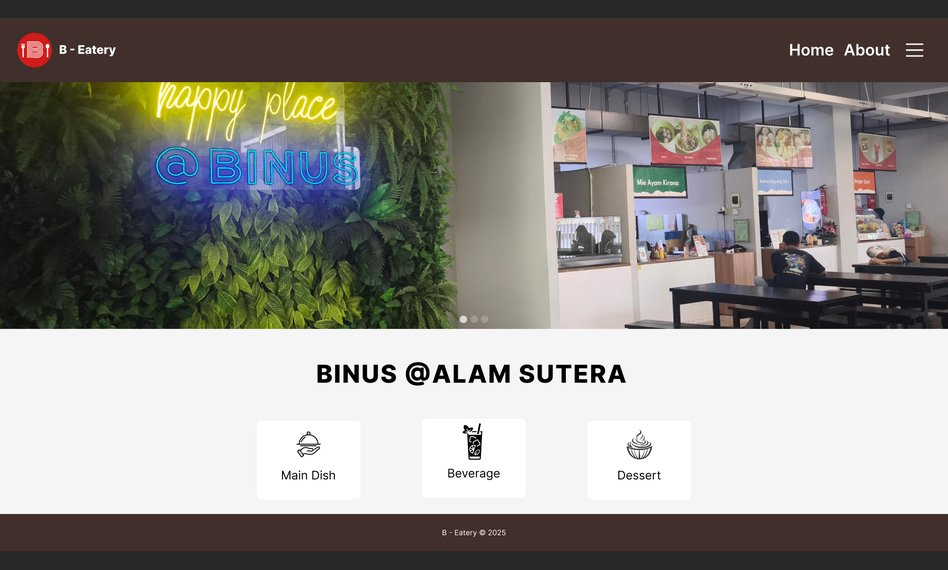
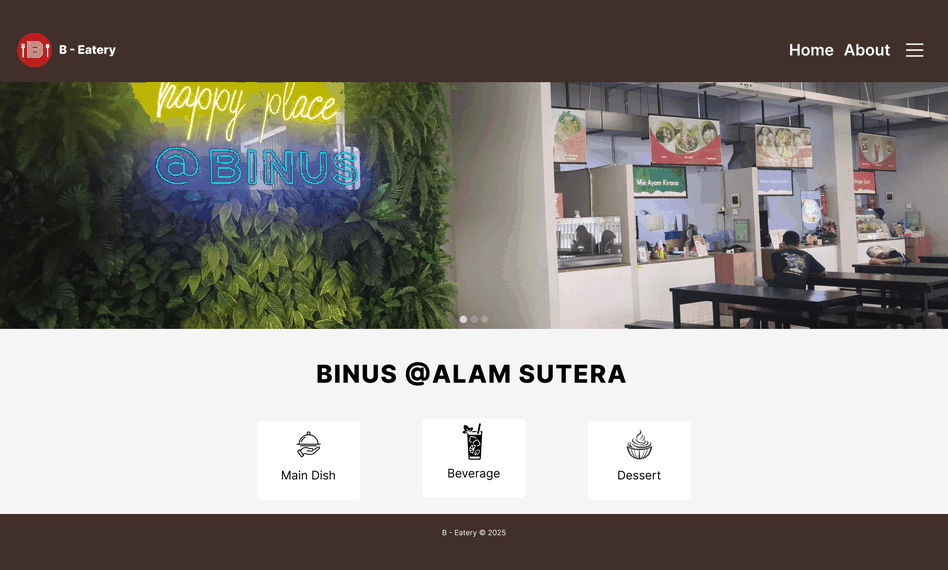
Design section: larger screenshots, click-to-zoom lightbox, compressed WebP images with PNG fallback

diff --git a/index.html b/index.html
@@ -417,6 +417,17 @@
     .design-shot.shot-missing .project-shot { display: none; }
     .design-shot.shot-missing .shot-fallback { display: flex; }
     .design-label { display: inline-block; margin-bottom: var(--s1); padding: 0 var(--s1); font: 16px/20px var(--f-px); color: var(--dim); border: 2px solid currentColor; }
+    @media (min-width: 761px) { .design-list .project { grid-template-columns: minmax(0, 54%) minmax(0, 1fr); } }
+    .shot-zoom { display: block; background: none; text-decoration: none; cursor: zoom-in; }
+    .shot-zoom:hover { background: none; }
+    .shot-zoom:hover .project-shot { border-image-source: var(--fr-panel); }
+    .zoom-hint { display: block; margin-top: var(--s1); font-size: 14px; line-height: 20px; color: var(--dim); }
+    .design-shot .project-shot { margin-bottom: 0; }
+    #lightbox { padding: var(--s3); max-width: min(1640px, 96vw); width: auto; max-height: 94vh; margin: auto; color: var(--ink); background: var(--page); border: 6px solid transparent; border-image: var(--fr-panel) 6 fill / 6px / 0 stretch; }
+    #lightbox::backdrop { background: rgba(20, 16, 10, .82); }
+    #lightbox img { display: block; max-width: 100%; max-height: calc(94vh - 130px); width: auto; height: auto; margin: 0 auto; }
+    #lightbox .lb-bar { display: flex; align-items: center; justify-content: space-between; gap: var(--s3); margin-bottom: var(--s2); }
+    #lightbox .lb-caption { font-size: 16px; line-height: 24px; color: var(--dim); }
     .design-fact { font-size: 16px; line-height: 24px; margin-top: var(--s2); }
     .todo { background: var(--wheat); color: #2e2419; padding: 0 var(--s1); outline: 2px dashed #2e2419; outline-offset: 0; }
     .design-code { margin-left: var(--s3); font: 20px/24px var(--f-px); white-space: nowrap; }
@@ -660,6 +671,11 @@
 </div>
 
 <canvas id="click-burst"></canvas>
+
+<dialog id="lightbox" aria-label="Screenshot viewer">
+  <div class="lb-bar"><p class="lb-caption" id="lbCaption"></p><button type="button" class="btn-game btn-outline-g" id="lbClose" aria-label="Close screenshot viewer"><svg class="px" aria-hidden="true"><use href="#i-close"/></svg> Close</button></div>
+  <img id="lbImg" alt="">
+</dialog>
 <div id="scroll-progress"></div>
 
 <!-- Toast -->
@@ -786,7 +802,7 @@
       <div class="design-list">
         <article class="project design-card">
           <div class="design-shot">
-            <img class="project-shot" src="assets/design/cryplto.png" width="948" height="570" loading="lazy" alt="cryPlto landing page design in Figma: a dark page with the headline Simplify Your Crypto Journey and a Top Coins row for Bitcoin, Ethereum, Binance Coin, and Solana" onerror="this.parentNode.classList.add('shot-missing')">
+            <a class="shot-zoom" href="assets/design/cryplto-large.webp" aria-label="Enlarge screenshot of cryPlto"><picture><source srcset="assets/design/cryplto.webp" type="image/webp"><img class="project-shot" src="assets/design/cryplto.png" width="948" height="570" loading="lazy" alt="cryPlto landing page design in Figma: a dark page with the headline Simplify Your Crypto Journey and a Top Coins row for Bitcoin, Ethereum, Binance Coin, and Solana" onerror="this.closest('.design-shot').classList.add('shot-missing')"></picture><span class="zoom-hint" aria-hidden="true">Click to enlarge</span></a>
             <div class="shot-fallback" role="img" aria-label="Screenshot of cryPlto coming soon">Screenshot coming soon</div>
           </div>
           <div class="design-body">
@@ -803,7 +819,7 @@
         </article>
         <article class="project design-card">
           <div class="design-shot">
-            <img class="project-shot" src="assets/design/chi-matcha.png" width="948" height="570" loading="lazy" alt="Chi Matcha app design in Figma: the sign-in screen, the home screen with a cafe photo and Menu and Stores buttons, and the menu of matcha drinks with prices" onerror="this.parentNode.classList.add('shot-missing')">
+            <a class="shot-zoom" href="assets/design/chi-matcha-large.webp" aria-label="Enlarge screenshot of Chi Matcha"><picture><source srcset="assets/design/chi-matcha.webp" type="image/webp"><img class="project-shot" src="assets/design/chi-matcha.png" width="948" height="570" loading="lazy" alt="Chi Matcha app design in Figma: the sign-in screen, the home screen with a cafe photo and Menu and Stores buttons, and the menu of matcha drinks with prices" onerror="this.closest('.design-shot').classList.add('shot-missing')"></picture><span class="zoom-hint" aria-hidden="true">Click to enlarge</span></a>
             <div class="shot-fallback" role="img" aria-label="Screenshot of Chi Matcha coming soon">Screenshot coming soon</div>
           </div>
           <div class="design-body">
@@ -820,7 +836,7 @@
         </article>
         <article class="project design-card">
           <div class="design-shot">
-            <img class="project-shot" src="assets/design/b-eatery.png" width="948" height="570" loading="lazy" alt="B-Eatery home page design in Figma: a photo banner of a food court above Main Dish, Beverage, and Dessert category buttons" onerror="this.parentNode.classList.add('shot-missing')">
+            <a class="shot-zoom" href="assets/design/b-eatery-large.webp" aria-label="Enlarge screenshot of B-Eatery"><picture><source srcset="assets/design/b-eatery.webp" type="image/webp"><img class="project-shot" src="assets/design/b-eatery.png" width="948" height="570" loading="lazy" alt="B-Eatery home page design in Figma: a photo banner of a food court above Main Dish, Beverage, and Dessert category buttons" onerror="this.closest('.design-shot').classList.add('shot-missing')"></picture><span class="zoom-hint" aria-hidden="true">Click to enlarge</span></a>
             <div class="shot-fallback" role="img" aria-label="Screenshot of B-Eatery coming soon">Screenshot coming soon</div>
           </div>
           <div class="design-body">
@@ -1347,6 +1363,7 @@ navLinks.querySelectorAll('a').forEach(link => {
 document.addEventListener('keydown', e => {
   if (e.ctrlKey || e.metaKey || e.altKey || e.shiftKey || e.repeat) return;
   if (typeof snakeModal !== 'undefined' && snakeModal.style.display === 'flex') return;
+  if (document.querySelector('dialog[open]')) return;
   const sections = ['hero','about','design','experience','projects','skills','achievements','education','contact'];
   const num = parseInt(e.key);
   if (num >= 1 && num <= 8) {
@@ -1484,6 +1501,30 @@ document.getElementById('hud-pro-btn').addEventListener('click', () => {
   if (on) { AudioSys.muted = true; applySoundState(); }
   showToast(on ? 'Professional view on' : 'Game view on', 'View Changed');
 });
+
+// ─── DESIGN SCREENSHOT LIGHTBOX ──────────────────────
+(function() {
+  const box = document.getElementById('lightbox');
+  if (!box || typeof box.showModal !== 'function') return;   // without <dialog>, the link simply opens the image
+  const img = document.getElementById('lbImg');
+  const cap = document.getElementById('lbCaption');
+  let opener = null;
+  document.querySelectorAll('a.shot-zoom').forEach(a => {
+    a.addEventListener('click', e => {
+      e.preventDefault();
+      opener = a;
+      const thumb = a.querySelector('img');
+      img.src = a.getAttribute('href');
+      img.alt = thumb ? thumb.alt : '';
+      cap.textContent = (a.getAttribute('aria-label') || '').replace('Enlarge screenshot of ', '');
+      box.showModal();
+      document.getElementById('lbClose').focus();
+    });
+  });
+  document.getElementById('lbClose').addEventListener('click', () => box.close());
+  box.addEventListener('click', e => { if (e.target === box) box.close(); });   // click on the dark backdrop
+  box.addEventListener('close', () => { img.removeAttribute('src'); if (opener) opener.focus(); });
+})();
 
 // ─── aria-pressed on the toggle buttons ──────────────
 (function() {
